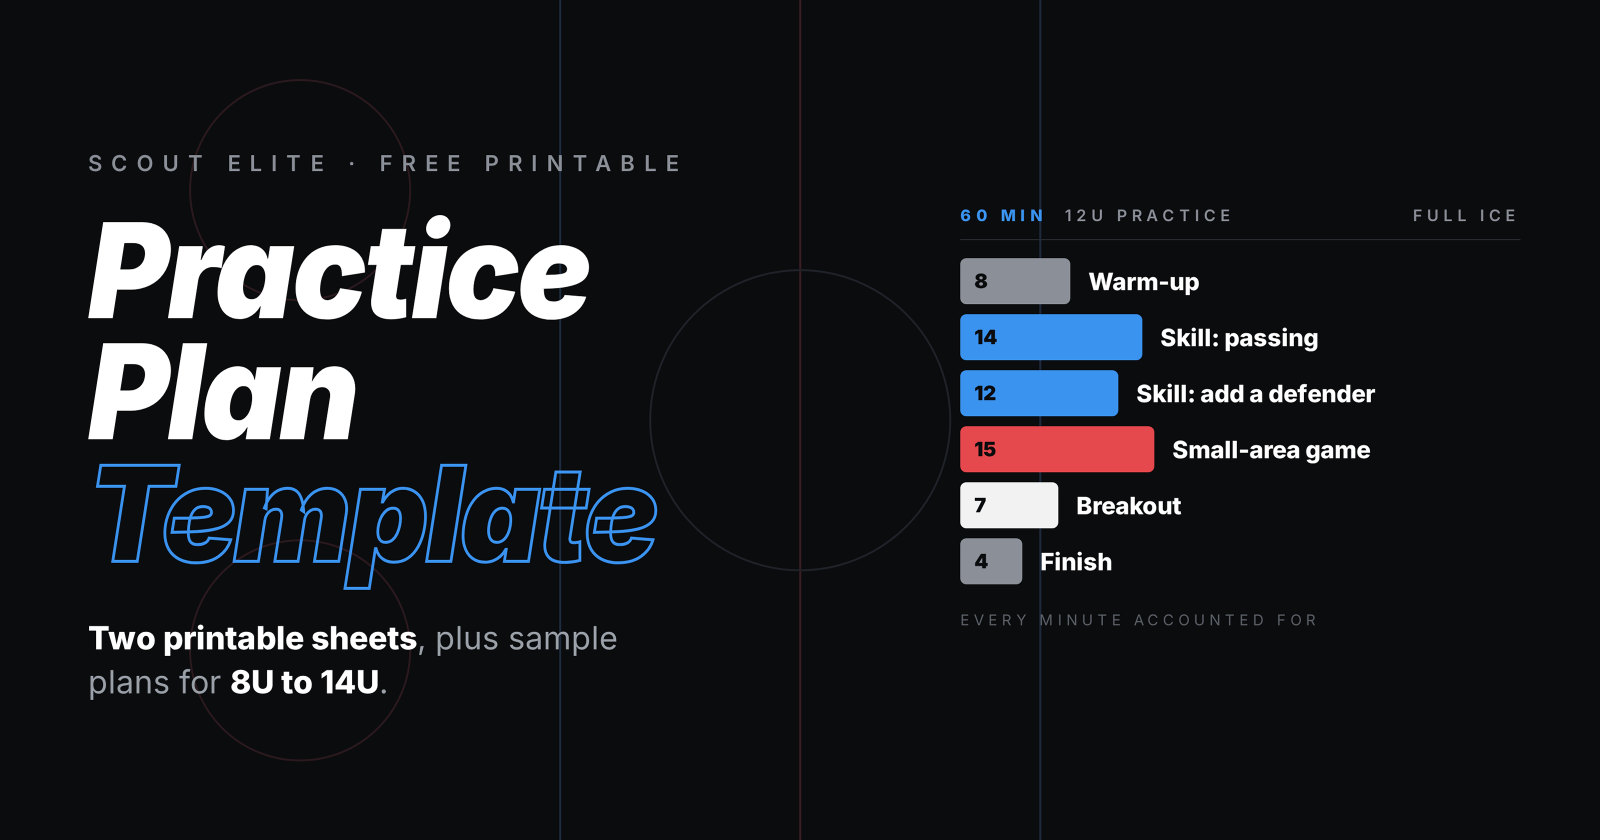
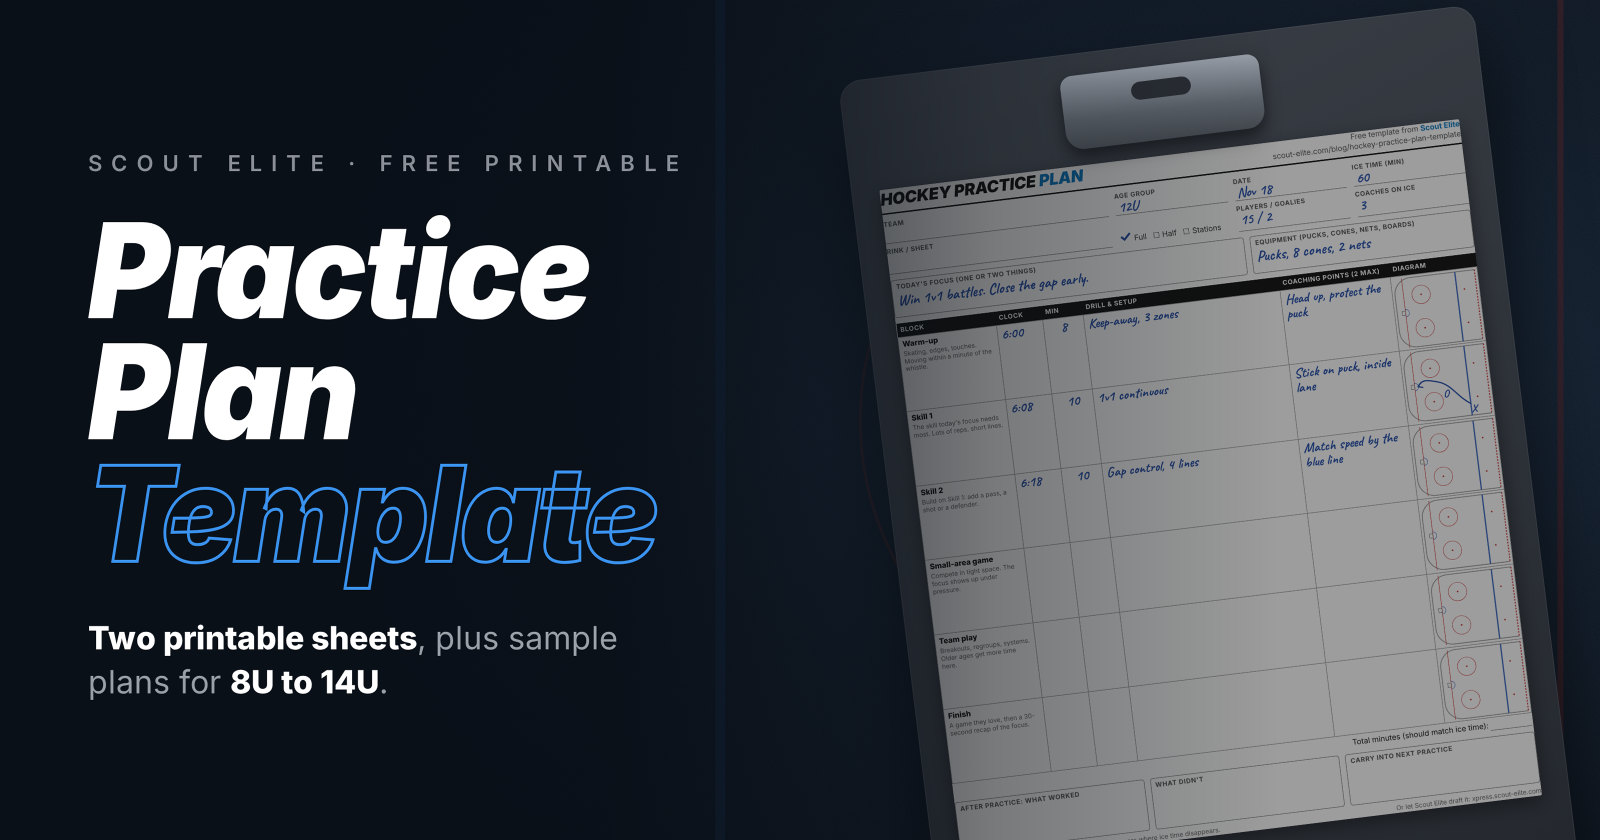
Practice plan post: new hero, the filled-in template on a clipboard over dark ice
hero.mjs now renders page 1 of template.html with a handwritten 12U plan
(hero-sheet.png), then hero.html at 2x; downscaled with jimp per agents.md.

diff --git a/Reference Material/Blog/practice-plan-template/hero.html b/Reference Material/Blog/practice-plan-template/hero.html
@@ -1,47 +1,43 @@
 <!doctype html>
-<!-- Hero/OG art for /blog/hockey-practice-plan-template/. Rendered by hero.mjs at 2x, then
-     downscaled to 1600x840 (house style: img/blog/nepsac-prep-hockey-guide.jpg). -->
+<!-- Hero/OG art for /blog/hockey-practice-plan-template/: the real page 1, filled in by hand with the
+     post's 12U sample, on a clipboard over dark ice. hero.mjs renders hero-sheet.png first, then this at 2x;
+     downscale to 1600x840 with jimp (see .github/agents.md). -->
 <html><head><meta charset="utf-8">
 <link href="https://fonts.googleapis.com/css2?family=Inter:ital,wght@0,400;0,600;0,800;0,900;1,900&display=swap" rel="stylesheet">
 <style>
-  html,body{margin:0;width:1600px;height:840px;background:#0b0c0e;font-family:Inter,sans-serif;overflow:hidden}
-  .rink{position:absolute;inset:0}
+  html,body{margin:0;width:1600px;height:840px;overflow:hidden;font-family:Inter,sans-serif;
+    background:radial-gradient(ellipse 90% 80% at 70% 45%,#18283b 0%,#0f1a28 45%,#0a1018 100%)}
+  .ice{position:absolute;inset:0}
+  .board{position:absolute;left:890px;top:40px;width:640px;height:900px;border-radius:22px;
+    background:linear-gradient(160deg,#3a3f47,#24282e);transform:rotate(-7deg);
+    box-shadow:0 40px 80px rgba(0,0,0,.65),0 0 0 1px rgba(255,255,255,.06) inset}
+  .sheet{position:absolute;left:28px;top:112px;width:584px;border-radius:2px;
+    filter:brightness(.62) contrast(.95) saturate(.9);box-shadow:0 6px 18px rgba(0,0,0,.45)}
+  .clip{position:absolute;left:220px;top:22px;width:200px;height:74px;border-radius:12px 12px 18px 18px;
+    background:linear-gradient(180deg,#9aa1aa,#5d636b 60%,#454a51);box-shadow:0 8px 16px rgba(0,0,0,.5)}
+  .clip:after{content:"";position:absolute;left:70px;top:14px;width:60px;height:18px;border-radius:9px;background:#2a2e34}
+  .shade{position:absolute;inset:0;background:linear-gradient(90deg,#0a1018 0%,rgba(10,16,24,.92) 38%,rgba(10,16,24,.25) 62%,rgba(10,16,24,0) 80%)}
   .left{position:absolute;left:88px;top:150px;width:760px}
   .kicker{color:#8a8f98;letter-spacing:.42em;font-size:22px;font-weight:600;text-transform:uppercase}
   h1{margin:34px 0 0;font-weight:900;font-style:italic;font-size:132px;line-height:.92;color:#fff;transform:scaleX(.94);transform-origin:left;letter-spacing:-.02em}
   h1 .o{color:transparent;-webkit-text-stroke:3px #3b93f0;display:block}
   .sub{margin-top:42px;color:#9aa0a8;font-size:32px;line-height:1.35}
   .sub b{color:#fff;font-weight:800}
-  .right{position:absolute;left:960px;top:205px;width:560px}
-  .lab{color:#8a8f98;font-size:16px;letter-spacing:.3em;font-weight:600;text-transform:uppercase;border-bottom:1px solid #2a2d33;padding-bottom:14px;margin-bottom:18px;display:flex;justify-content:space-between}
-  .lab b{color:#3b93f0;font-weight:800}
-  .blk{display:flex;align-items:center;margin:10px 0;color:#fff;font-weight:800;font-size:24px}
-  .blk .bar{height:46px;border-radius:6px;margin-right:18px;display:flex;align-items:center;padding-left:14px;font-size:20px;color:#0b0c0e;font-weight:900}
-  .blk .t{color:#8a8f98;font-weight:600;font-size:20px;margin-left:auto}
-  .foot{color:#5c6169;font-size:15px;letter-spacing:.3em;margin-top:26px;text-transform:uppercase}
 </style></head><body>
-<svg class="rink" viewBox="0 0 1600 840">
-  <g fill="none" stroke-width="2">
-    <line x1="560" y1="0" x2="560" y2="840" stroke="#1d2a3d"/>
-    <line x1="800" y1="0" x2="800" y2="840" stroke="#3a1d22"/>
-    <line x1="1040" y1="0" x2="1040" y2="840" stroke="#1d2a3d"/>
-    <circle cx="800" cy="420" r="150" stroke="#1f2329"/>
-    <circle cx="300" cy="190" r="110" stroke="#2b1a1e"/><circle cx="300" cy="650" r="110" stroke="#2b1a1e"/>
+<svg class="ice" viewBox="0 0 1600 840">
+  <defs><filter id="n"><feTurbulence type="fractalNoise" baseFrequency=".9" numOctaves="2" seed="4"/><feColorMatrix values="0 0 0 0 1  0 0 0 0 1  0 0 0 0 1  0 0 0 .05 0"/></filter></defs>
+  <rect width="1600" height="840" filter="url(#n)"/>
+  <g fill="none" stroke-width="3" opacity=".55">
+    <line x1="720" y1="0" x2="720" y2="840" stroke="#1f3f6e" stroke-width="10"/>
+    <line x1="1560" y1="0" x2="1560" y2="840" stroke="#4a2228" stroke-width="6"/>
+    <circle cx="1160" cy="420" r="300" stroke="#4a2a30"/><circle cx="1160" cy="420" r="6" fill="#4a2a30"/>
   </g>
 </svg>
+<div class="board"><img class="sheet" src="hero-sheet.png"><div class="clip"></div></div>
+<div class="shade"></div>
 <div class="left">
   <div class="kicker">Scout Elite &middot; Free printable</div>
   <h1>Practice Plan<span class="o">Template</span></h1>
   <div class="sub"><b>Two printable sheets</b>, plus sample<br>plans for <b>8U to 14U</b>.</div>
-</div>
-<div class="right">
-  <div class="lab"><span><b>60 min</b> &nbsp;12U practice</span><span>Full ice</span></div>
-  <div class="blk"><div class="bar" style="width:96px;background:#8a8f98">8</div>Warm-up</div>
-  <div class="blk"><div class="bar" style="width:168px;background:#3b93f0">14</div>Skill: passing</div>
-  <div class="blk"><div class="bar" style="width:144px;background:#3b93f0">12</div>Skill: add a defender</div>
-  <div class="blk"><div class="bar" style="width:180px;background:#e5484d">15</div>Small-area game</div>
-  <div class="blk"><div class="bar" style="width:84px;background:#f2f2f2">7</div>Breakout</div>
-  <div class="blk"><div class="bar" style="width:48px;background:#8a8f98">4</div>Finish</div>
-  <div class="foot">Every minute accounted for</div>
 </div>
 </body></html>

diff --git a/_posts/2026-11-10-hockey-practice-plan-template.md b/_posts/2026-11-10-hockey-practice-plan-template.md
@@ -11,7 +11,7 @@ author: "Coach Scott"
 excerpt: "Two printable sheets (a timed practice plan and a station rotation), sample plans for 8U, 10U, 12U and 14U, and the research behind how they are built."
 image:
   path: /img/blog/hockey-practice-plan-template.jpg
-  alt: "Hockey practice plan template: a 60-minute 12U practice broken into timed blocks"
+  alt: "Hockey practice plan template on a clipboard, filled in by hand for a 60-minute 12U practice"
 permalink: /blog/hockey-practice-plan-template/
 ---
 
